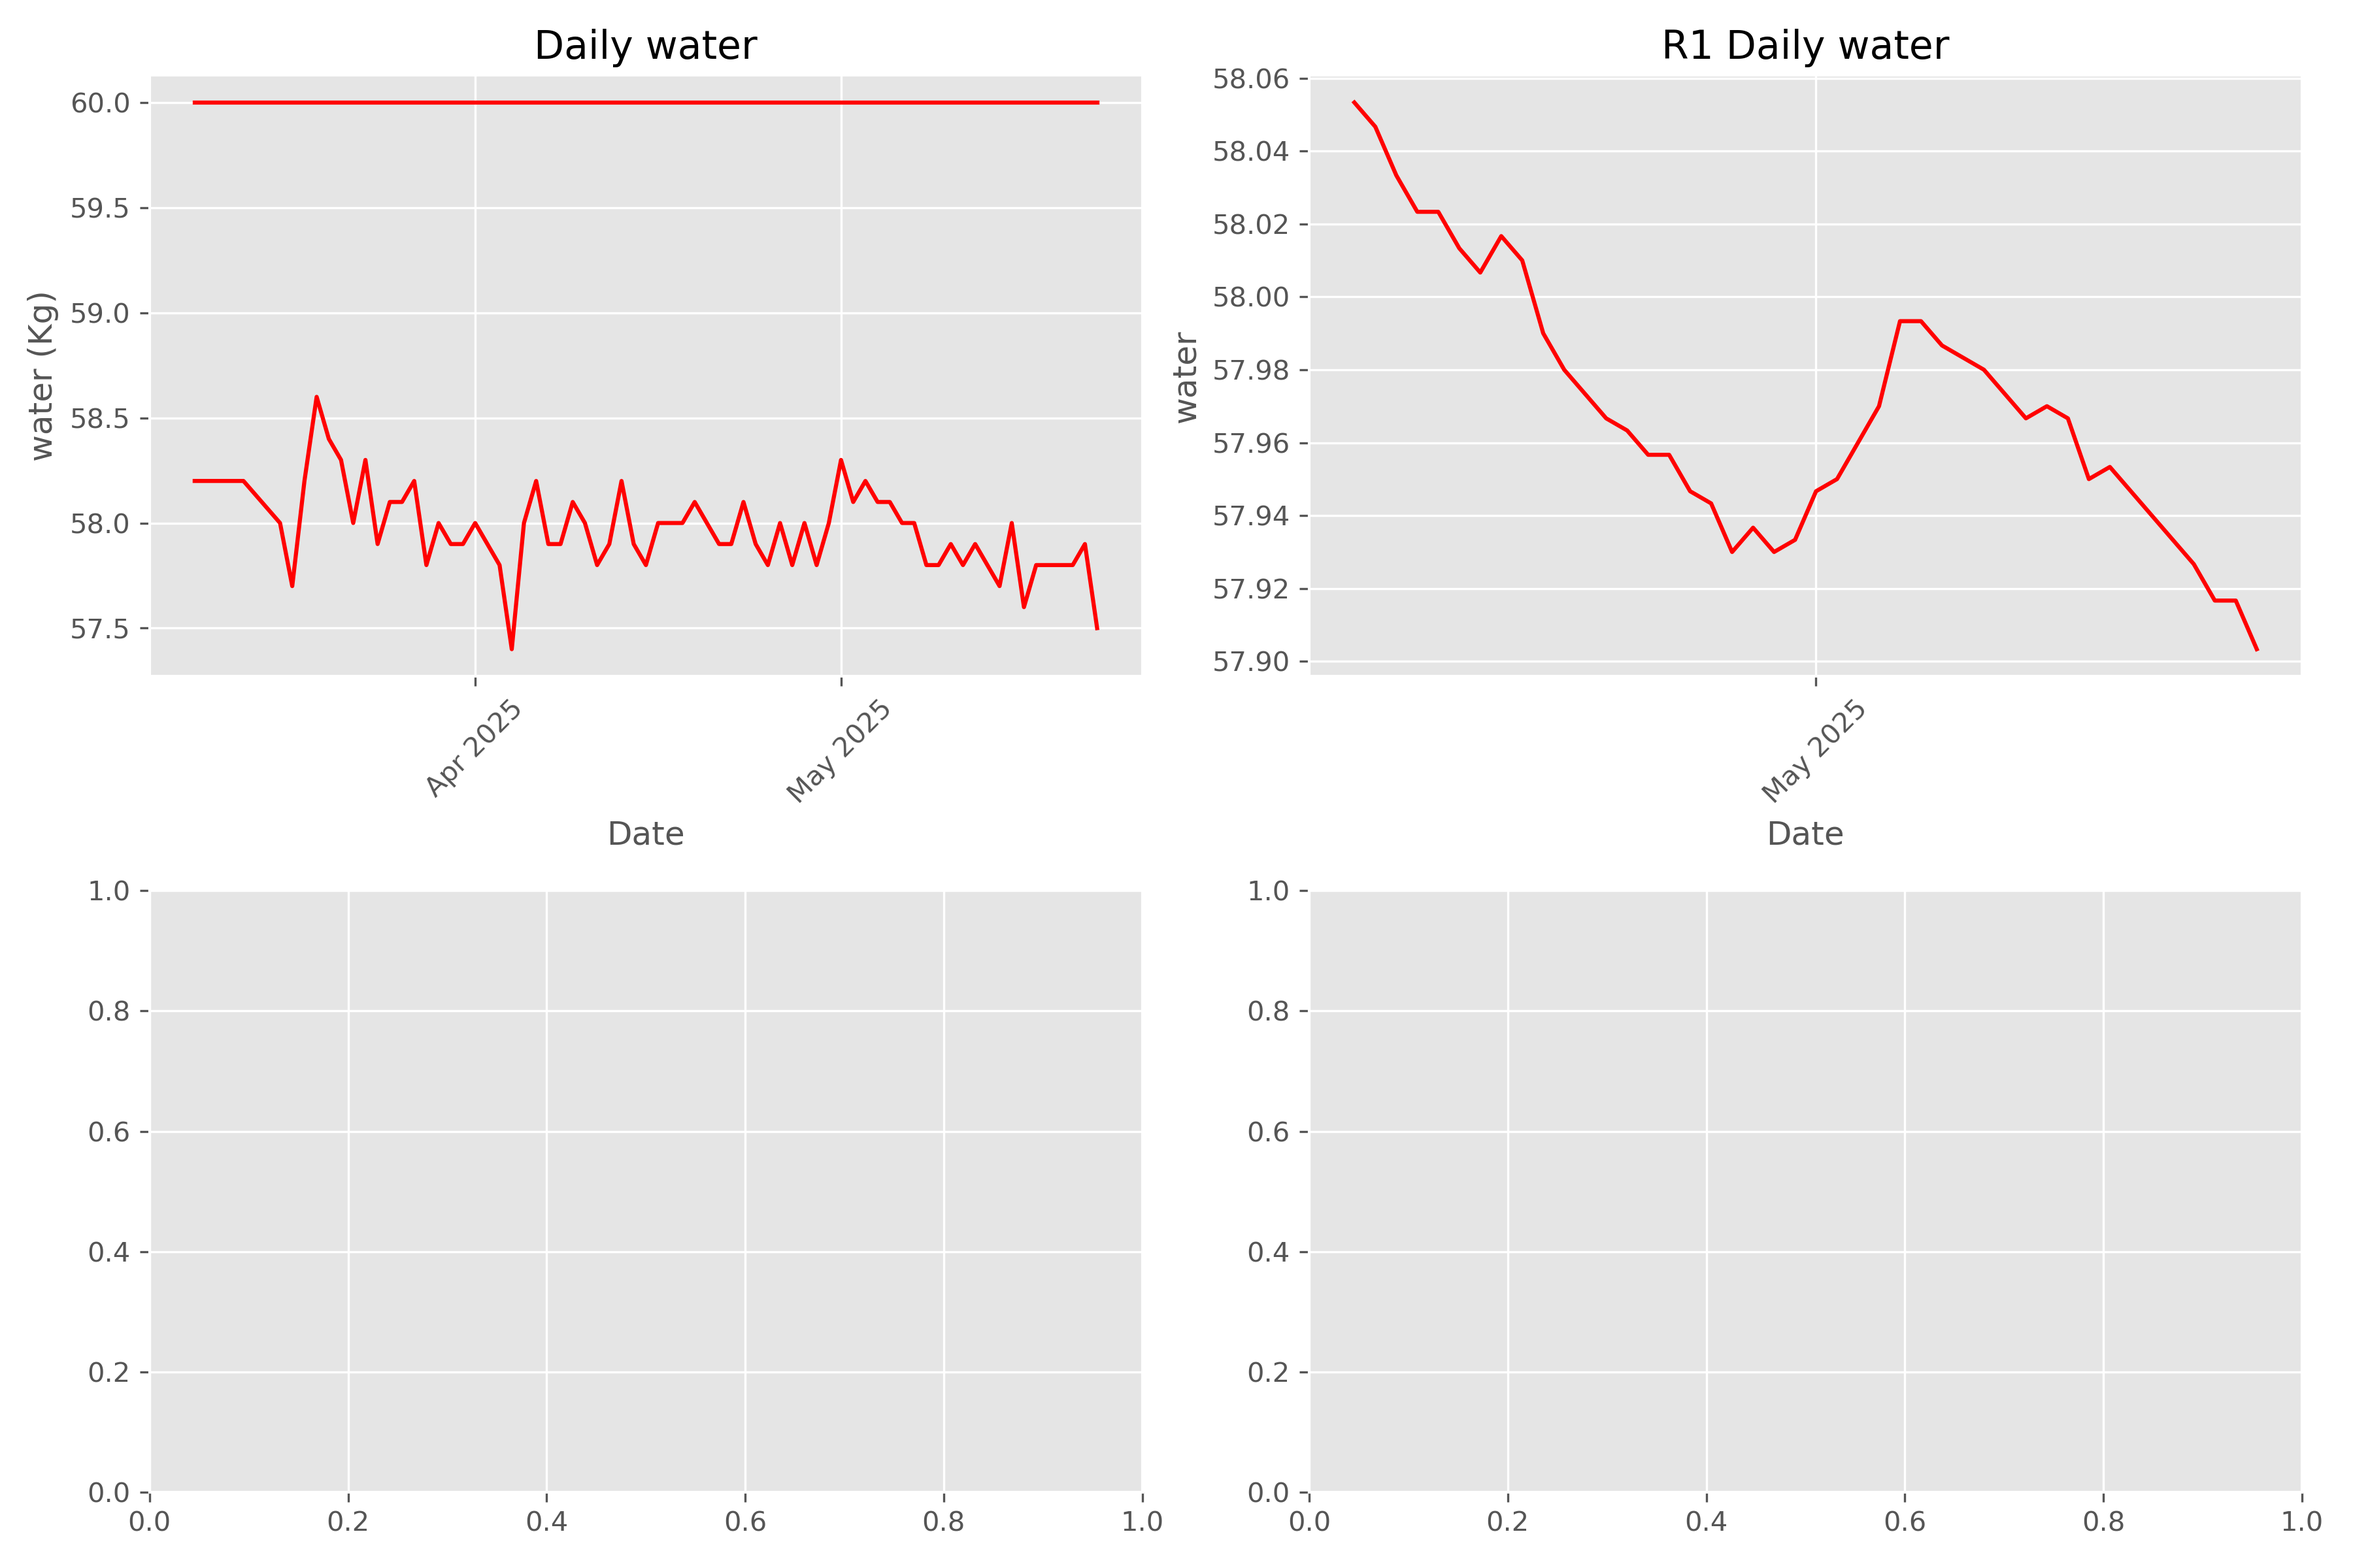
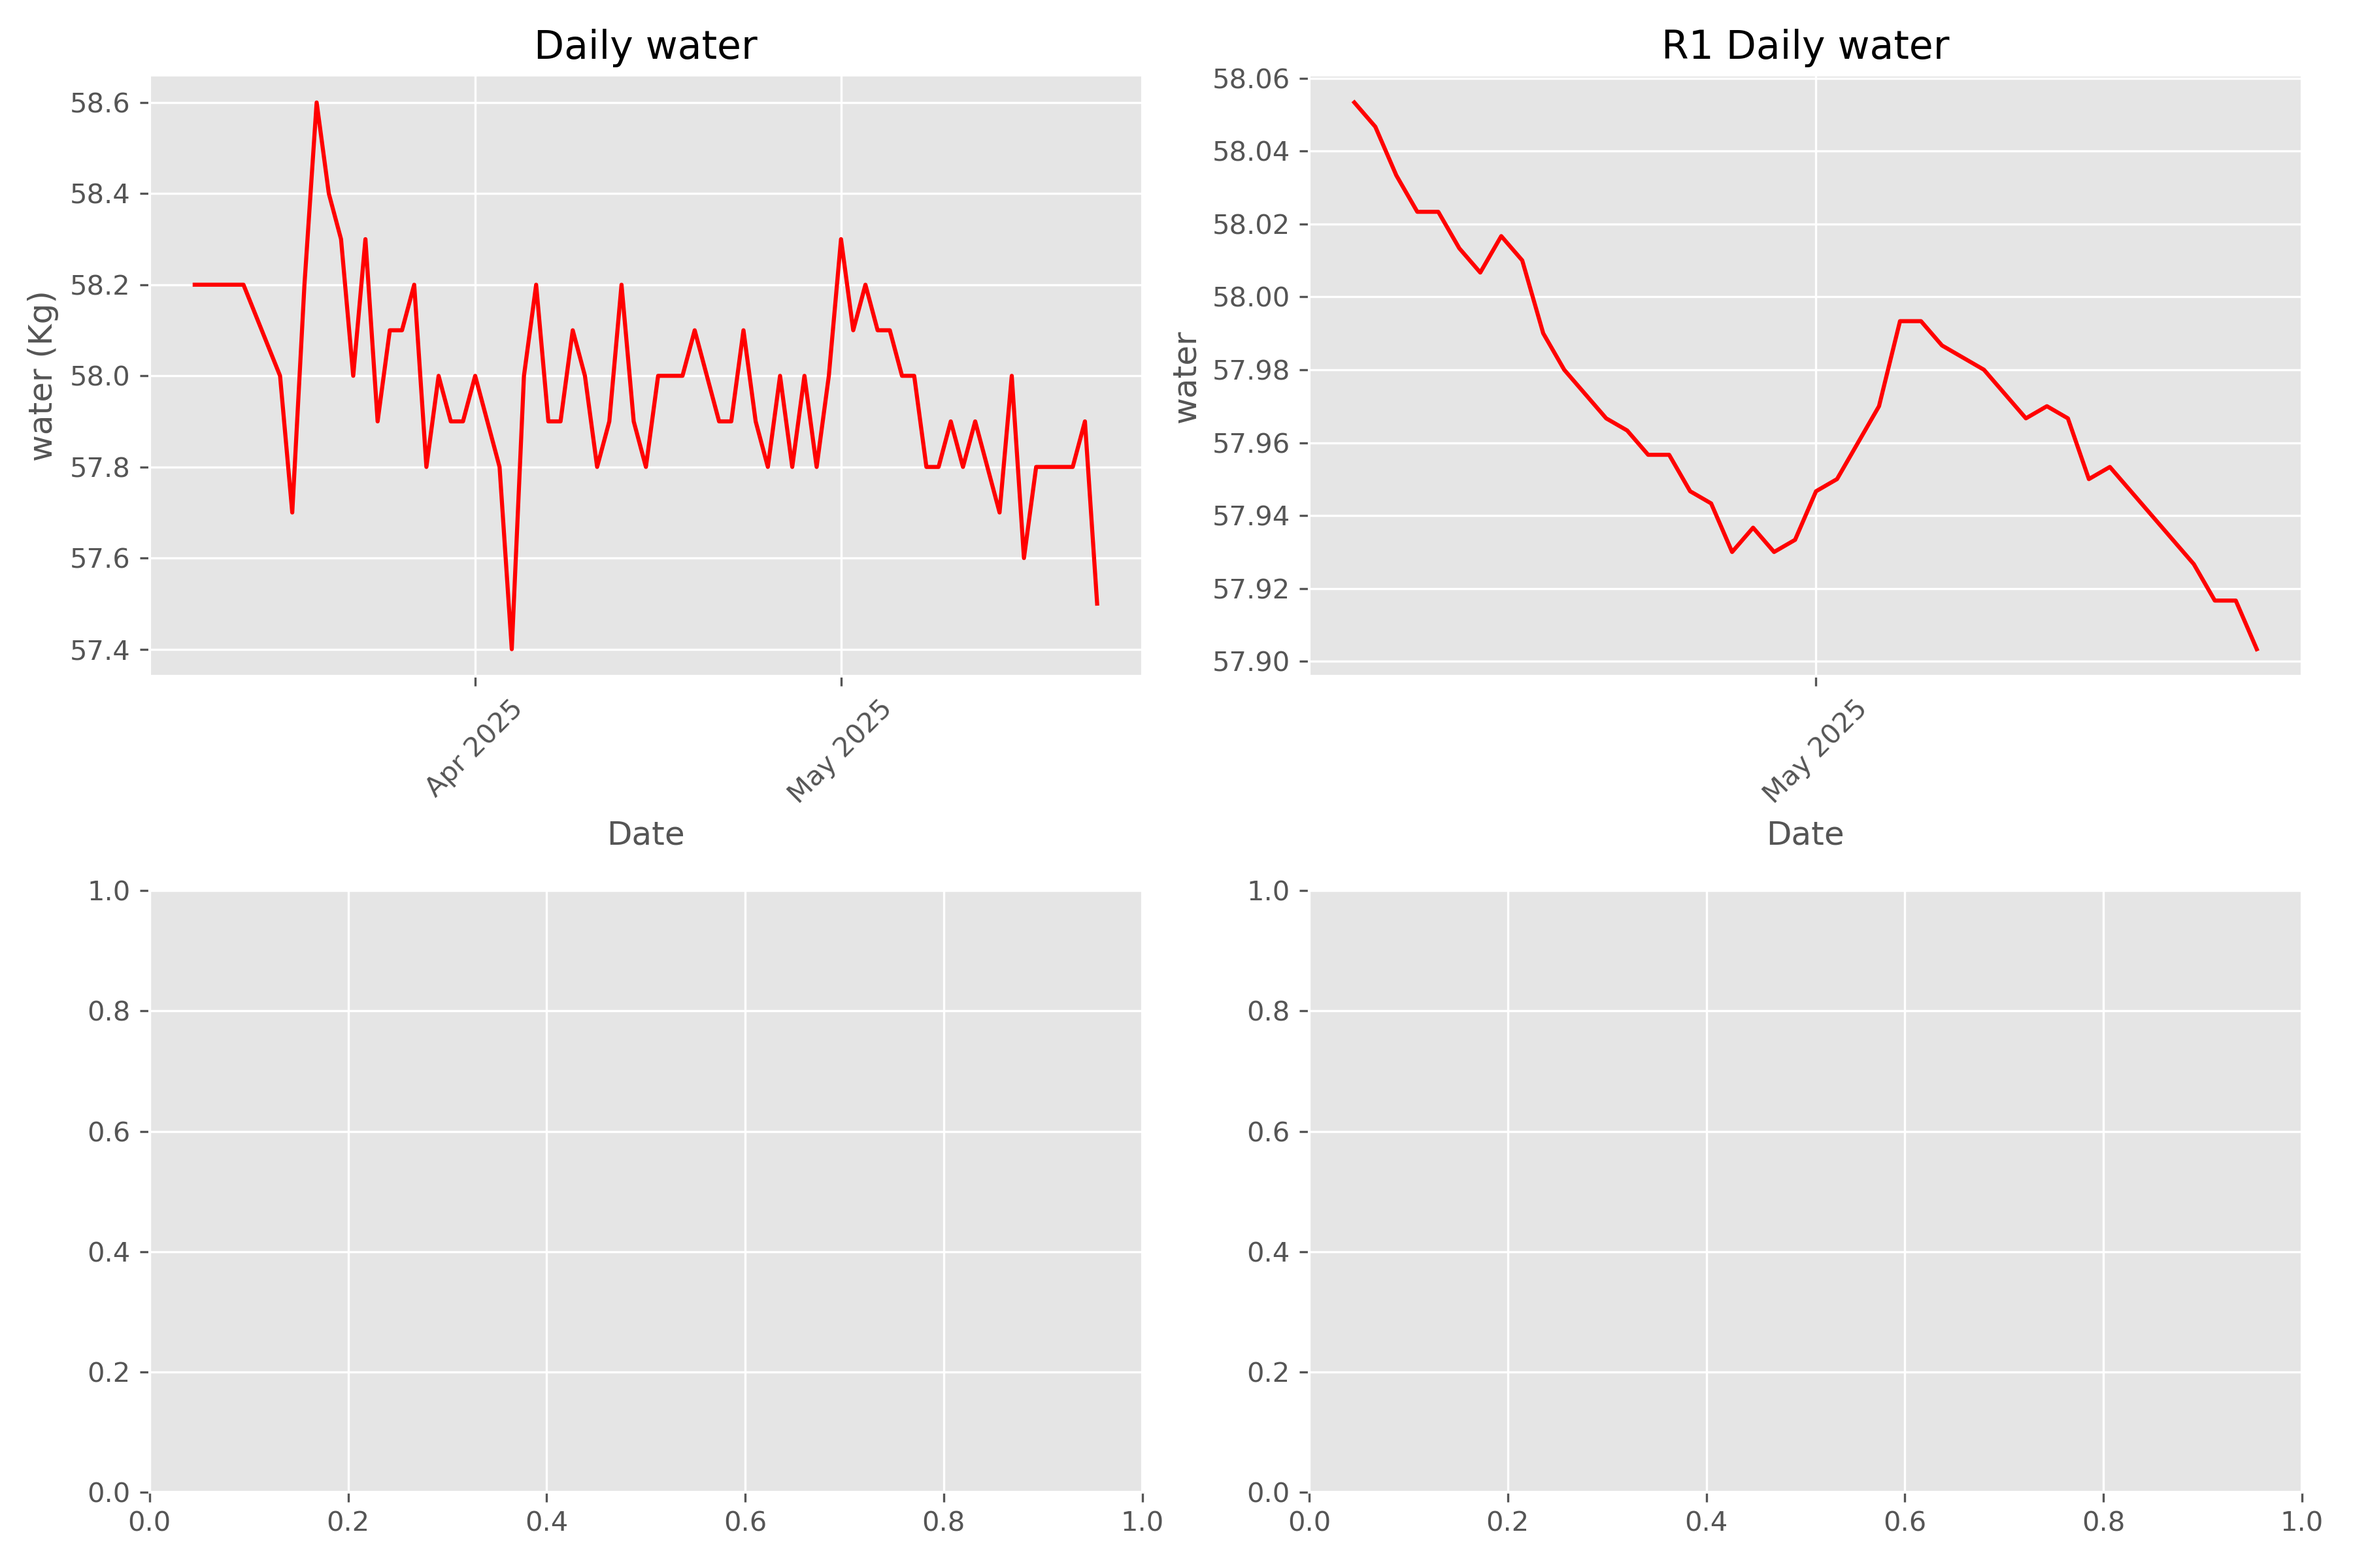
New features

Changed region(s): [[0.0933, 0.0625, 0.4667, 0.4062], [0.0311, 0.125, 0.0622, 0.375], [0.0311, 0.4062, 0.0622, 0.4375]]

diff --git a/update.py b/update.py
@@ -162,6 +162,16 @@ ax[0, 1].xaxis.set_major_formatter(mdates.DateFormatter("%b %Y"))
 ax[0, 1].xaxis.set_major_locator(mdates.MonthLocator())
 ax[0, 1].tick_params(axis='x', rotation=45)
 
+# Plot 3
+ax[1, 0].plot(fat_dt, fat_v.rolling(90).mean(), color='red')  # Média móvel em vez de soma/60
+ax[1, 0].set_ylabel('Body fat (%)')
+ax[1, 0].set_title('R3 Daily percentage of body fat (90d avg)')
+ax[1, 0].set_xlabel('Date')
+ax[1, 0].xaxis.set_major_formatter(mdates.DateFormatter("%b %Y"))
+ax[1, 0].xaxis.set_major_locator(mdates.MonthLocator())
+ax[1, 0].tick_params(axis='x', rotation=45)
+
+
 plt.tight_layout()
 plt.savefig('image/body_fat.png', dpi=300)
 plt.close()
@@ -171,7 +181,6 @@ fig, ax = plt.subplots(2, 2, figsize=(12, 8))  # Adiciona um tamanho apropriado 
 
 # Plot 1
 ax[0, 0].plot(water_dt, water_v, color='red')
-ax[0, 0].plot(water_dt, water_v_obj, color='red')
 ax[0, 0].set_ylabel('water (Kg)')
 ax[0, 0].set_title('Daily water')
 ax[0, 0].set_xlabel('Date')
